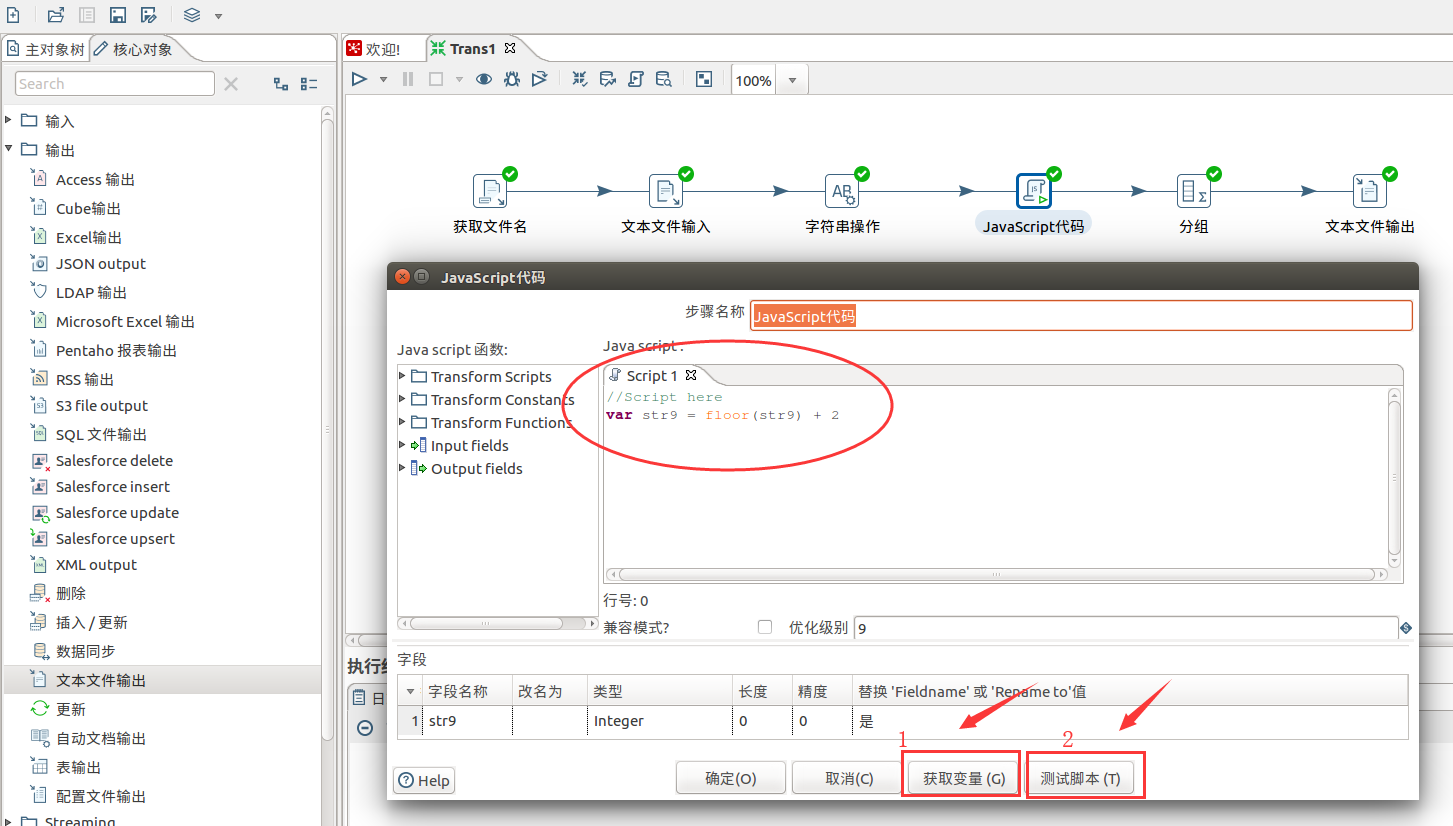
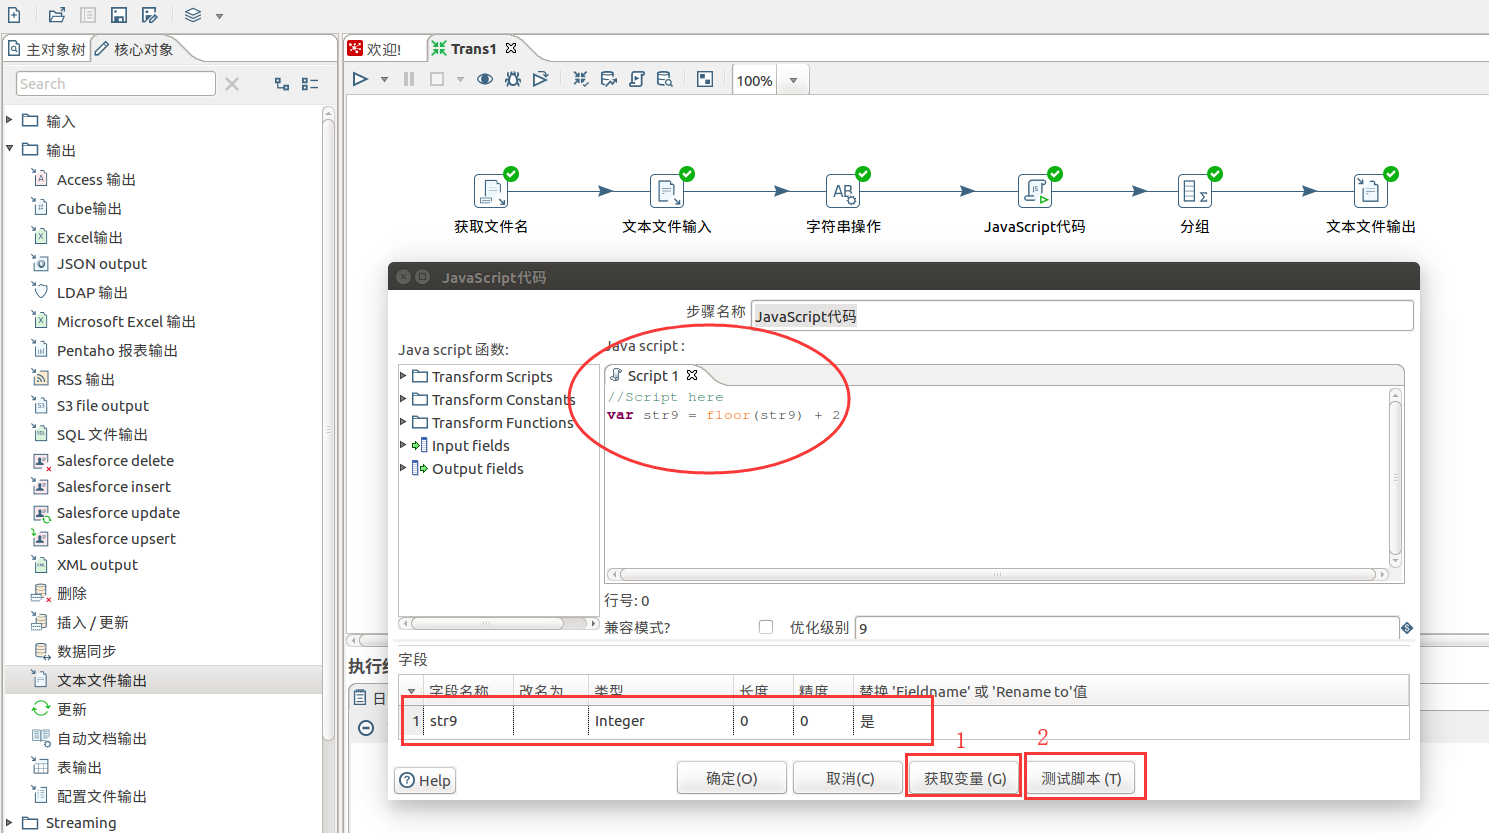
update kettle

Changed region(s): [[0.0, 0.0, 1.0, 1.0], [0.7743, 0.8172, 0.8052, 0.8777], [0.5884, 0.5145, 0.6194, 0.5448]]

diff --git a/9.9.Other/2.0.Kettle/1.Kettle安装部署及使用教程/1.4.示例B.md b/9.9.Other/2.0.Kettle/1.Kettle安装部署及使用教程/1.4.示例B.md
@@ -54,9 +54,11 @@ JY01011602020103|JY010116020201030004|3|1|2016-08-01|2000000.00|19600.00|2000000
 
 ### 1.4.设置“javascript代码”
 
-![设置javascript代码](img/29.png)
+![设置javascript代码1](img/29.png)
 
+![设置javascript代码2](img/30.png)
 
+![设置javascript代码3](img/31.png)
 
 
 
